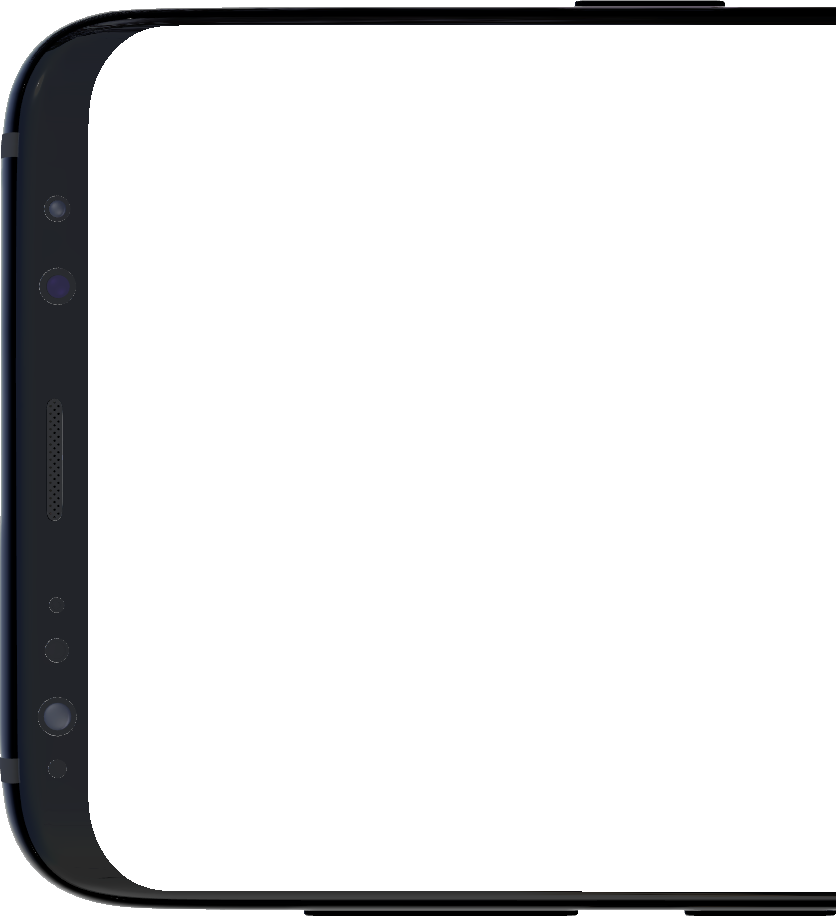
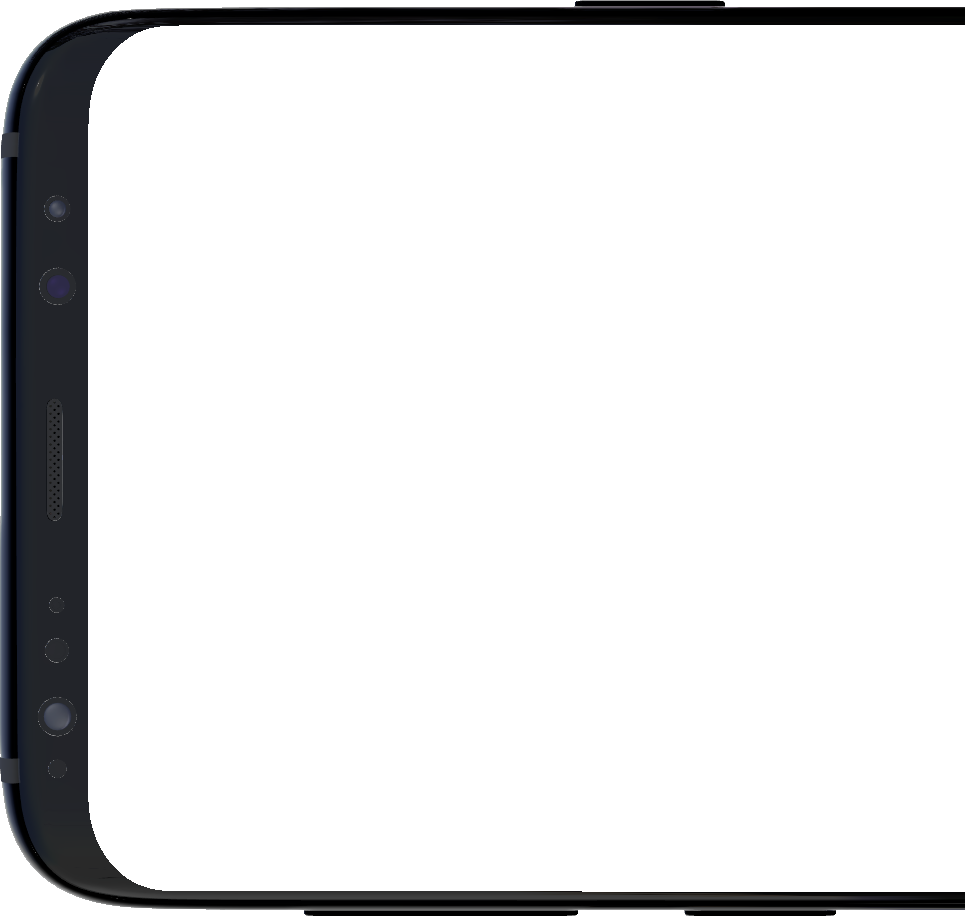
1128 沒想到橫向的很快就完成了，那明天再來用tablet吧

diff --git a/components/frame-phone-landscape.less b/components/frame-phone-landscape.less
@@ -1,6 +1,6 @@
 .frame-phone-landscape {
   
-  @height: 916px;
+  @height: 915px;
   @width: 1979px;
   
   @marginTop: 24px;
@@ -50,7 +50,7 @@
     }
     
     .frame-image-container {
-      min-width: 1350px;
+      min-width: 1200px;
     }
 
   }
@@ -99,15 +99,17 @@
   
   .frame-left-container {
     display: inline-block;
-    margin-right: -752px;
+    margin-right: -882px;
     
     position: relative;
     z-index: 2;
   }
   
+  @frameBottomContainerMarginLeft: -290px;
+  
   .frame-right-container {
     display: inline-block;
-    margin-left: -220px;
+    margin-left: @frameBottomContainerMarginLeft - 2px;
     
     position: relative;
     z-index: 2;
@@ -133,8 +135,9 @@
       .frame-left,
       .frame-right {
         margin-left: 300px;
+        
         .frame-image {
-          margin-left: -510px;
+          //margin-left: -510px;
           //-642px
         }
       }
@@ -146,7 +149,8 @@
     
     .frame-content {
       .frame-image-container {
-        min-width: 1410px;
+        //min-width: 1410px;
+        min-width: 1351px;
       }
     }
   }

diff --git a/scripts/vue-app-data.js b/scripts/vue-app-data.js
@@ -1,10 +1,11 @@
 var appData = {
   //frameType: 'browser',
-  //frameType: 'phone-landscape',
-  frameType: 'phone-portrait',
+  frameType: 'phone-landscape',
+  //frameType: 'phone-portrait',
   //imgSrc: './img/127243823_1603359236539994_2606480545547760605_n.jpg',
-  imgSrc: './img/demo/demo-phone-portrait.jpg',
-  //imgSrc: './img/demo/demo-phone-landscape.jpg',
+  //imgSrc: './img/demo/demo-phone-portrait.jpg',
+  imgSrc: './img/demo/demo-phone-landscape.jpg',
+  //imgSrc: './img/demo/demo-browser.png',
   //imgSrc: './img/demo/reading.jpg',
   imgIsLandscape: false,
   deviceDisplayNotificationBar: true,

diff --git a/components/frame-phone-landscape.vue b/components/frame-phone-landscape.vue
@@ -16,7 +16,8 @@
        <div class="frame-content">
          <device-notification-bar></device-notification-bar>
 
-         <div class="frame-image-container">
+         <div class="frame-image-container"
+              v-bind:style="{'background-color': $parent.deviceBackgroundColor}">
            <img v-bind:src="$parent.imgSrc" class="frame-image" v-bind:class="{'is-landscape': $parent.imgIsLandscape}" />
          </div>
        </div>

diff --git a/styles/styles.less b/styles/styles.less
@@ -29,6 +29,8 @@ body {
 .frame {
   display: inline-block;
   cursor: pointer;
+  
+  //transform: translate(-25%, -25%) scale(0.5);
 }
 
 .image-detector {
